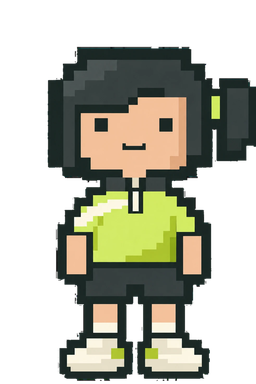
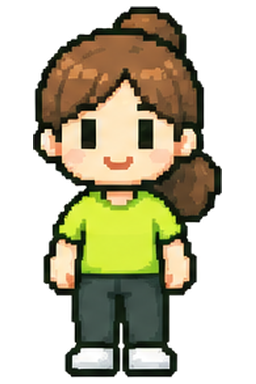
디자이너 시트 그림으로 전체 교체 + 동료 정원·캐릭터를 모두에게 표시
- 나무 4·장식 8·배지 11·캐릭터 2·정원 바탕·선물 꽃을 시트(design/sprite-sheet-2026-11-19)에서 잘라 넣음
  (scripts/slice-sheet-art-*.py 로 자르고 place-sheet-art.py 로 앱 규격에 맞춤)
- 도트 격자가 아닌 큰 그림이라 모두 부드럽게 줄여 그림(pixelated 제거)
- 나무는 정원에서 단계가 오를수록 커짐(TREE_GARDEN 18/23/30/40칸), 장식 칸 수를 그림 비율에 맞춤, 정원 바탕 그림 깔기
- 피드에서 이름을 누르면 누구든 캐릭터와 정원이 보임(공개 설정 show_in_feed 조건과 스위치 제거, 11-19 TK 지시)
- 시험: v22 130/130, check-art 29/29, garden-test 35/37(2건은 시험 DB에 넣어 둔 시험 데이터 탓)

diff --git a/components/GardenCanvas.tsx b/components/GardenCanvas.tsx
@@ -6,7 +6,7 @@
 //  · onMove 를 주면 편집 가능: 장식을 끌어서 옮기거나, 장식을 고른 뒤 빈 자리를 누르면 그 자리로 옮김. 저장은 손을 뗄 때 1번.
 //  · 움직이는 효과 없음(11-18 TK: 흔들리면 멀미 남)
 import { useRef, useState } from 'react'
-import { clampSpot, decorByKey, GARDEN_SIZE, GARDEN_TREE, Placed, TREE_STAGES } from '@/lib/game'
+import { clampSpot, decorByKey, GARDEN_SIZE, GARDEN_TREE, Placed, TREE_GARDEN, TREE_STAGES } from '@/lib/game'
 
 interface Props {
   stage: number
@@ -26,6 +26,7 @@ export default function GardenCanvas({ stage, items, scale, label, selected = nu
   const editable = !!onMove && !disabled
   const px = GARDEN_SIZE * scale
   const n = Math.min(Math.max(Math.round(stage) || 1, 1), TREE_STAGES.length)
+  const tree = TREE_GARDEN[n - 1] // 단계가 오를수록 나무가 커짐
 
   const cellAt = (e: { clientX: number; clientY: number }) => {
     const r = box.current!.getBoundingClientRect()
@@ -36,7 +37,8 @@ export default function GardenCanvas({ stage, items, scale, label, selected = nu
 
   return (
     <div ref={box} role={editable ? 'group' : 'img'} aria-label={label}
-      className="relative mx-auto overflow-hidden rounded-2xl bg-brand-50" style={{ width: px, height: px }}
+      className="relative mx-auto overflow-hidden rounded-2xl bg-brand-50"
+      style={{ width: px, height: px, backgroundImage: 'url(/game/v22/garden/garden-bg.png)', backgroundSize: '100% 100%' }}
       onClick={(e) => {
         // 장식을 고른 상태에서 빈 자리를 누르면 그 자리로(그림 가운데가 누른 곳에 오게)
         if (!editable || !selected || e.target !== e.currentTarget) return
@@ -50,8 +52,8 @@ export default function GardenCanvas({ stage, items, scale, label, selected = nu
       <img src={`/game/v22/tree/stage-${n}.png`} alt="" draggable={false}
         className="pointer-events-none absolute select-none"
         style={{
-          imageRendering: 'pixelated', width: GARDEN_TREE.w * scale, height: GARDEN_TREE.h * scale,
-          left: (GARDEN_TREE.x - GARDEN_TREE.w / 2) * scale, top: (GARDEN_TREE.y - GARDEN_TREE.h) * scale, zIndex: GARDEN_TREE.y,
+          width: tree * scale, height: tree * scale,
+          left: (GARDEN_TREE.x - tree / 2) * scale, top: (GARDEN_TREE.y - tree) * scale, zIndex: GARDEN_TREE.y,
         }} />
       {shown.map((it) => {
         const d = decorByKey(it.key)
@@ -63,7 +65,7 @@ export default function GardenCanvas({ stage, items, scale, label, selected = nu
         }
         const img = (
           // eslint-disable-next-line @next/next/no-img-element
-          <img src={d.src} alt={editable ? '' : d.name} draggable={false} className="pointer-events-none block h-full w-full select-none" style={{ imageRendering: 'pixelated' }} />
+          <img src={d.src} alt={editable ? '' : d.name} draggable={false} className="pointer-events-none block h-full w-full select-none" />
         )
         if (!editable) return <div key={it.key} className="absolute" style={style}>{img}</div>
         return (

diff --git a/lib/game.ts b/lib/game.ts
@@ -80,21 +80,24 @@ export function itemByKey(key: string | null | undefined): Item | null {
 //  · 햇빛으로 사면 내 것(환불 없음). 놓고, 옮기고, 빼 둘 수 있음. 같은 장식은 1개만.
 //  · 키는 game_purchases 검사(^[a-z]+_[a-z]+$)에 맞게 decor_xxx.
 //  · 좌표 (x, y) = 장식의 발끝(그림 아래쪽 가운데), 칸 단위 정수. 그림 크기가 바뀌어도 자리가 안 틀어지고, y 가 클수록 앞에 그려집니다.
-//  · 그림: public/game/v22/decor/decor-<이름>.png (픽셀 1칸 = 4px). 지금은 개발자 임시 시안(scripts/make-decor-art.py). w·h 는 칸 수.
+//  · 그림: public/game/v22/decor/decor-<이름>.png — 디자이너 시트(design/sprite-sheet-2026-11-19)에서 잘라 넣음(scripts/place-sheet-art.py).
+//    w·h 는 정원에서 차지하는 칸 수(1칸 = 정원 4px). 그림 파일은 같은 비율의 큰 그림(1칸 = 8px)이라 부드럽게 줄여 그립니다.
 export const GARDEN_SIZE = 80
-export const GARDEN_TREE = { x: 40, y: 52, w: 24, h: 24 } // 나무 자리(고정)
+export const GARDEN_TREE = { x: 40, y: 54 } // 나무 밑동 자리(고정)
+/** 정원에서 나무가 차지하는 칸(정사각) — 단계가 오를수록 커집니다(새싹 → 큰 나무) */
+export const TREE_GARDEN = [18, 23, 30, 40] as const
 export interface Decor { key: string; name: string; price: number; w: number; h: number; src: string }
 const decor = (id: string, name: string, price: number, w = 16, h = 16): Decor =>
   ({ key: `decor_${id}`, name, price, w, h, src: `/game/v22/decor/decor-${id}.png` })
 export const DECOR: Decor[] = [
-  decor('tulip', '튤립', 30),
-  decor('wild', '들꽃', 30),
-  decor('sunflower', '해바라기', 40),
-  decor('pot', '화분', 50),
-  decor('bench', '벤치', 60, 24, 16),
-  decor('butterfly', '나비', 70),
-  decor('lantern', '정원 등', 80),
-  decor('fountain', '분수', 120, 24, 24),
+  decor('tulip', '튤립', 30, 14, 15),
+  decor('wild', '들꽃', 30, 16, 16),
+  decor('sunflower', '해바라기', 40, 14, 18),
+  decor('pot', '화분', 50, 16, 17),
+  decor('bench', '벤치', 60, 24, 15),
+  decor('butterfly', '나비', 70, 16, 11),
+  decor('lantern', '정원 등', 80, 12, 22),
+  decor('fountain', '분수', 120, 26, 22),
 ]
 export function decorByKey(key: string | null | undefined): Decor | null {
   return DECOR.find((d) => d.key === key) ?? null

diff --git a/components/GardenPanel.tsx b/components/GardenPanel.tsx
@@ -104,7 +104,6 @@ function MyCharacterSection({ game, onChange }: { game: Game; onChange: (g: Game
         </div>
       </div>
       {msg && <div className="mt-3"><Notice tone={msg.tone}>{msg.text}</Notice></div>}
-      <FeedToggle game={game} onChange={(v) => onChange({ ...game, showInFeed: v })} />
     </section>
   )
 }
@@ -332,32 +331,3 @@ function GardenSection({ garden }: { garden: Garden | null }) {
   )
 }
 
-// ── 피드 표시 ──
-function FeedToggle({ game, onChange }: { game: Game; onChange: (v: boolean) => void }) {
-  const [saving, setSaving] = useState(false)
-  const [err, setErr] = useState('')
-  async function toggle() {
-    setSaving(true); setErr('')
-    const r = await api('/api/me/game/profile', { method: 'PUT', body: { showInFeed: !game.showInFeed } })
-    setSaving(false)
-    if (r.ok) onChange(!game.showInFeed); else setErr(r.message || '저장하지 못했어요.')
-  }
-  return (
-    <div className="mt-5 border-t border-line pt-4">
-      <div className="flex items-center justify-between gap-4">
-        <div>
-          <p className="text-[15px] font-bold text-ink-900">피드에 내 캐릭터 보이기</p>
-          <p className="mt-0.5 text-[13px] text-ink-500">켜면 동료 피드의 내 이름 옆에 작은 캐릭터가 보여요. 햇빛 수는 보이지 않아요.</p>
-        </div>
-        <button type="button" role="switch" aria-checked={game.showInFeed} disabled={saving} onClick={toggle}
-          aria-label="피드에 내 캐릭터 보이기"
-          className="flex h-[44px] w-[60px] shrink-0 items-center justify-center disabled:opacity-50">
-          <span className={`relative block h-[32px] w-[56px] rounded-full border-2 border-ink-900 transition-colors ${game.showInFeed ? 'bg-brand-300' : 'bg-ink-100'}`}>
-            <span className={`absolute top-[2px] h-[24px] w-[24px] rounded-full bg-ink-900 motion-safe:transition-[left] ${game.showInFeed ? 'left-[26px]' : 'left-[2px]'}`} />
-          </span>
-        </button>
-      </div>
-      {err && <div className="mt-3"><Notice tone="error">{err}</Notice></div>}
-    </div>
-  )
-}

diff --git a/lib/server/game.ts b/lib/server/game.ts
@@ -180,9 +180,10 @@ export async function feedLooks(db: SupabaseClient, ids: string[], today = kstTo
 /** 동료 프로필(피드에서 이름을 눌렀을 때) — 이모지·한마디, 캐릭터는 본인이 '보이기'를 켠 경우만 */
 export async function peerProfile(db: SupabaseClient, employeeId: string) {
   const { data: p } = await db.from('game_profiles').select('*').eq('employee_id', employeeId).maybeSingle()
-  // 정원 구경(2단계): 공개를 켠 직원만. 나무 단계 이름과 놓인 장식만 — 운동한 날 수·햇빛·가진 장식 목록은 내보내지 않음
+  // 정원 구경: 모든 직원(11-19 TK: 이름을 누르면 그 사람의 정원과 캐릭터가 나오게 — 공개 설정 없앰).
+  // 나무 단계 이름과 놓인 장식만 — 운동한 날 수·햇빛·가진 장식 목록은 내보내지 않음
   let garden: { stage: number; stageName: string; items: Placed[] } | null = null
-  if (p?.show_in_feed === true) {
+  {
     const [e, placed] = await Promise.all([
       earnedFor(db, employeeId),
       db.from('garden_placements').select('item_key, slot, x, y').eq('employee_id', employeeId), // 033·034 전 DB 면 오류 → 빈 정원
@@ -193,8 +194,8 @@ export async function peerProfile(db: SupabaseClient, employeeId: string) {
   return {
     garden,
     emoji: isNameEmoji(p?.name_emoji) ? (p.name_emoji as string) : null,
-    showCharacter: p?.show_in_feed === true,
-    character: p?.show_in_feed === true && isCharacterKey(p?.character) ? (p.character as string) : null,
+    showCharacter: true,
+    character: isCharacterKey(p?.character) ? (p.character as string) : null, // 안 골랐으면 화면이 기본 캐릭터로 그림
     message: typeof p?.status_message === 'string' ? (p.status_message as string) : null,
   }
 }

diff --git a/components/Profile.tsx b/components/Profile.tsx
@@ -163,21 +163,6 @@ export function ProfileSheet({ open, name, onClose, onEmoji, setup = false }: {
             </button>
           </div>
 
-          {/* 캐릭터 공개 */}
-          <div className="flex items-center justify-between gap-4 border-t border-line pt-4">
-            <div>
-              <p className="text-[15px] font-bold text-ink-900">동료에게 내 캐릭터·정원 보이기</p>
-              <p className="mt-0.5 text-[13px] text-ink-500">켜면 동료가 피드에서 내 이름을 눌렀을 때 캐릭터와 정원이 보여요. 운동한 날 수와 햇빛은 보이지 않아요.</p>
-            </div>
-            <button type="button" role="switch" aria-checked={p.showInFeed} disabled={busy} aria-label="동료에게 내 캐릭터·정원 보이기"
-              onClick={() => save({ showInFeed: !p.showInFeed }, (cur) => ({ ...cur, showInFeed: !cur.showInFeed }))}
-              className="flex h-[44px] w-[60px] shrink-0 items-center justify-center disabled:opacity-50">
-              <span className={`relative block h-[32px] w-[56px] rounded-full border-2 border-ink-900 transition-colors ${p.showInFeed ? 'bg-brand-300' : 'bg-ink-100'}`}>
-                <span className={`absolute top-[2px] h-[24px] w-[24px] rounded-full bg-ink-900 motion-safe:transition-[left] ${p.showInFeed ? 'left-[26px]' : 'left-[2px]'}`} />
-              </span>
-            </button>
-          </div>
-
           {msg && <Notice tone={msg.tone}>{msg.text}</Notice>}
           {setup && (
             <button type="button" disabled={busy || !p.characterKey} onClick={onClose}

diff --git a/components/TreeArt.tsx b/components/TreeArt.tsx
@@ -1,9 +1,8 @@
 import { TREE_STAGES } from '@/lib/game'
 
 /**
- * 나무 그림 — 픽셀 아트 4단계(public/game/v22/tree/stage-N.png, 24×24 격자를 4배로 그린 96px).
- * 지금 파일은 개발자 임시 시안(scripts/make-tree-art.py). 디자이너 그림이 오면 같은 파일명으로 바꾸면 됩니다.
- * size 는 24의 배수(48·72·96)로 주면 픽셀이 뭉개지지 않습니다.
+ * 나무 그림 4단계(public/game/v22/tree/stage-N.png, 정사각 320px 투명 PNG) — 디자이너 시트에서 잘라 넣은 그림.
+ * 도트 격자가 아닌 큰 그림이라 부드럽게 줄여 그립니다.
  */
 export default function TreeArt({ stage, size = 96 }: { stage: number; size?: number }) {
   const n = Math.min(Math.max(Math.round(stage) || 1, 1), TREE_STAGES.length)
@@ -11,6 +10,6 @@ export default function TreeArt({ stage, size = 96 }: { stage: number; size?: nu
     // eslint-disable-next-line @next/next/no-img-element
     <img src={`/game/v22/tree/stage-${n}.png`} alt={`${TREE_STAGES[n - 1].name} 그림`} width={size} height={size}
       className="shrink-0"  // 움직이지 않음(11-18 TK: 흔들리면 멀미 남)
-      style={{ imageRendering: 'pixelated', width: size, height: size }} />
+      style={{ width: size, height: size }} />
   )
 }

diff --git a/components/MyGarden.tsx b/components/MyGarden.tsx
@@ -155,7 +155,7 @@ export default function MyGarden<G extends GardenGame>({ game, onChange }: { gam
               <span className="flex min-w-0 items-center gap-3">
                 <span className="flex h-12 w-12 shrink-0 items-center justify-center">
                   {/* eslint-disable-next-line @next/next/no-img-element */}
-                  <img src={d.src} alt="" width={d.w * 2} height={d.h * 2} style={{ imageRendering: 'pixelated', width: d.w * 2, height: d.h * 2 }} />
+                  <img src={d.src} alt="" width={d.w * 2} height={d.h * 2} className="max-h-12 max-w-12 object-contain" />
                 </span>
                 <span className="min-w-0">
                   <span className="block text-[15px] font-bold text-ink-900">{d.name}</span>

diff --git a/components/ChallengeTab.tsx b/components/ChallengeTab.tsx
@@ -307,7 +307,7 @@ function BadgeArt({ b, size = 64 }: { b: BadgeView; size?: number }) {
   if (broken) return <div style={{ opacity: b.earnedAt ? 1 : 0.45 }}><Seal text={String(b.threshold)} unit={SERIES_UNIT[b.series]} size={size} /></div>
   return (
     <img src={badgeSrc(b.key)} alt="" aria-hidden="true" width={size} height={size} onError={() => setBroken(true)}
-      style={{ imageRendering: 'pixelated', width: size, height: size, filter: b.earnedAt ? undefined : 'grayscale(1)', opacity: b.earnedAt ? 1 : 0.45 }} />
+      style={{ width: size, height: size, filter: b.earnedAt ? undefined : 'grayscale(1)', opacity: b.earnedAt ? 1 : 0.45 }} />
   )
 }
 

diff --git a/scripts/place-sheet-art.py b/scripts/place-sheet-art.py
@@ -1,0 +1,43 @@
+# 디자이너 스프라이트 시트(design/sprite-sheet-2026-11-19)에서 잘라 낸 그림을 앱 규격으로 맞춰 public/game/v22 에 넣습니다.
+#   python scripts/place-sheet-art.py <잘라 낸 raw-*.png 가 있는 폴더>
+# 시트 그림은 도트 격자가 아닌 큰 그림이라, 앱은 부드럽게 줄여 그립니다(pixelated 아님).
+#  · 장식: lib/game.ts DECOR 의 w·h(칸, 1칸 = 정원 4px)와 같은 비율의 캔버스(1칸 = 8px)에 아래 가운데로 놓음
+#  · 나무: 정사각 320px 에 꽉 차게(아래 가운데). 정원에서의 크기는 lib/game.ts TREE_GARDEN 이 단계별로 정함
+#  · 배지: 정사각 256px. 같은 계열 안에서 단계가 오를수록 조금씩 커지게(크기 차이를 절반만 반영)
+#  · 캐릭터: 256×384, 두 장 같은 배율·같은 발 위치
+import sys, math
+from pathlib import Path
+from PIL import Image
+RAW = Path(sys.argv[1]); PUB = Path('public/game/v22')
+K = 0.64 / 4  # 시트 px → 정원 칸
+def fit(im, W, H, margin=0, anchor='bottom'):
+    s = min((W - 2 * margin) / im.width, (H - 2 * margin) / im.height)
+    r = im.resize((max(1, round(im.width * s)), max(1, round(im.height * s))), Image.LANCZOS)
+    c = Image.new('RGBA', (W, H), (0, 0, 0, 0))
+    y = H - margin - r.height if anchor == 'bottom' else (H - r.height) // 2
+    c.alpha_composite(r, ((W - r.width) // 2, y)); return c
+cells = {}
+for n in ['tulip', 'wild', 'sunflower', 'pot', 'bench', 'butterfly', 'lantern', 'fountain', 'gift-flower']:
+    im = Image.open(RAW / f'raw-decor-{n}.png')
+    w, h = max(8, round(im.width * K)), max(8, round(im.height * K))
+    w += w % 2  # 가운데 맞춤이 반 칸 어긋나지 않게 짝수
+    cells[n] = (w, h)
+    fit(im, w * 8, h * 8).save(PUB / 'decor' / f'decor-{n}.png')
+for i in range(1, 5):
+    fit(Image.open(RAW / f'raw-stage-{i}.png'), 320, 320).save(PUB / 'tree' / f'stage-{i}.png')
+B = ['record-01', 'record-10', 'record-30', 'record-100', 'streak-03', 'streak-07', 'streak-14', 'streak-30', 'goal-01', 'goal-04', 'goal-12']
+ims = {n: Image.open(RAW / f'raw-{n}.png') for n in B}
+big = max(max(i.size) for i in ims.values())
+for n, im in ims.items():
+    box = round(244 * math.sqrt(max(im.size) / big))
+    c = Image.new('RGBA', (256, 256), (0, 0, 0, 0)); c.alpha_composite(fit(im, box, box, anchor='center'), ((256 - box) // 2, (256 - box) // 2))
+    c.save(PUB / 'badges' / f'{n}.png')
+cm, cf = Image.open(RAW / 'raw-char-m.png'), Image.open(RAW / 'raw-char-f.png')
+s = 372 / max(cm.height, cf.height)
+for n, im in (('char-m', cm), ('char-f', cf)):
+    r = im.resize((round(im.width * s), round(im.height * s)), Image.LANCZOS)
+    c = Image.new('RGBA', (256, 384), (0, 0, 0, 0)); c.alpha_composite(r, ((256 - r.width) // 2, 378 - r.height)); c.save(PUB / 'characters' / f'{n}.png')
+(PUB / 'garden').mkdir(exist_ok=True)
+Image.open(RAW / 'raw-garden-bg.png').resize((640, 640), Image.LANCZOS).save(PUB / 'garden' / 'garden-bg.png')
+print('decor cells', cells)
+print('tree px(sheet)', [Image.open(RAW / f'raw-stage-{i}.png').size for i in range(1, 5)])

diff --git a/scripts/check-art.py b/scripts/check-art.py
@@ -19,7 +19,7 @@ for k in keys:
         check(f'{k} 파일', False, str(p)); continue
     im = Image.open(p)
     a = im.getchannel('A') if im.mode == 'RGBA' else None
-    check(f'{k} → {p.name}: 64×64 · 투명 배경', im.size == (64, 64) and a is not None and a.getpixel((0, 0)) == 0 and min(a.getdata()) == 0, f'{im.size} {im.mode}')
+    check(f'{k} → {p.name}: 256×256 · 투명 배경', im.size == (256, 256) and a is not None and a.getpixel((0, 0)) == 0 and min(a.getdata()) == 0, f'{im.size} {im.mode}')
 for c in ['char-m', 'char-f']:
     im = Image.open(f'public/game/v22/characters/{c}.png')
     check(f'캐릭터 {c}: 256×384(2:3, 화면에서 64×96 기준으로 줄여 그림) · 투명 배경', im.size == (256, 384) and im.mode == 'RGBA' and im.getchannel('A').getpixel((0, 0)) == 0, f'{im.size}')
@@ -28,7 +28,7 @@ for c in ['char-m', 'char-f']:
 for n in range(1, 5):
     f = Path(f'public/game/v22/tree/stage-{n}.png')
     im = Image.open(f) if f.exists() else None
-    check(f'나무 stage-{n}: 96×96 · 투명 배경', bool(im) and im.size == (96, 96) and im.mode == 'RGBA' and im.getchannel('A').getpixel((0, 0)) == 0, str(im.size if im else '없음'))
+    check(f'나무 stage-{n}: 320×320 · 투명 배경', bool(im) and im.size == (320, 320) and im.mode == 'RGBA' and im.getchannel('A').getpixel((0, 0)) == 0, str(im.size if im else '없음'))
 g = Path('lib/game.ts').read_text(encoding='utf-8')
 decor = re.findall(r"decor\('(\w+)', '[^']+', \d+(?:, (\d+), (\d+))?\)", g)
 check('장식 8종 정의', len(decor) == 8, str(len(decor)))
@@ -36,6 +36,6 @@ for name, w, h in decor:
     w, h = int(w or 16), int(h or 16)
     f = Path(f'public/game/v22/decor/decor-{name}.png')
     im = Image.open(f) if f.exists() else None
-    check(f'장식 decor-{name}: {w*4}×{h*4} · 투명 배경', bool(im) and im.size == (w * 4, h * 4) and im.mode == 'RGBA' and im.getchannel('A').getpixel((0, 0)) == 0, str(im.size if im else '없음'))
+    check(f'장식 decor-{name}: {w*8}×{h*8}(칸 {w}×{h}) · 투명 배경', bool(im) and im.size == (w * 8, h * 8) and im.mode == 'RGBA' and im.getchannel('A').getpixel((0, 0)) == 0, str(im.size if im else '없음'))
 print(f'\n결과: {ok}/{ok + bad} 통과')
 sys.exit(1 if bad else 0)

diff --git a/scripts/slice-sheet-art-2-cut.py b/scripts/slice-sheet-art-2-cut.py
@@ -1,0 +1,28 @@
+import sys, glob
+from PIL import Image, ImageFilter
+import numpy as np
+from scipy import ndimage as ndi
+src=glob.glob('C:/Users/SAEGYAERO/Downloads/*스프라이트 시트*.png')[0]
+OUT=sys.argv[1]
+im=Image.open(src).convert('RGB'); a=np.asarray(im)
+bg=np.load(OUT+'/bg.npy'); fg=ndi.binary_opening(~bg,structure=np.ones((3,3)))
+# 튤립·들꽃 경계: 552~761 사이에서 전경이 가장 적은 열
+col=fg[363:474,620:680].sum(0); split=620+int(col.argmin()); print('split',split,col.min())
+B={'stage-1':(605,166,733,284),'stage-2':(795,127,937,284),'stage-3':(982,90,1182,284),'stage-4':(1201,15,1503,290),
+'decor-tulip':(552,363,split,474),'decor-wild':(split,363,761,474),'decor-sunflower':(769,352,870,475),'decor-pot':(872,364,979,481),
+'decor-bench':(980,375,1134,478),'decor-butterfly':(1136,382,1241,463),'decor-lantern':(1252,340,1337,491),'decor-fountain':(1342,340,1519,491),
+'record-01':(373,611,470,680),'record-10':(493,605,621,682),'record-30':(650,578,742,698),'record-100':(767,576,914,696),
+'streak-03':(404,752,463,819),'streak-07':(515,737,596,825),'streak-14':(647,726,750,830),'streak-30':(806,700,891,840),
+'goal-01':(401,866,517,977),'goal-04':(570,860,684,983),'goal-12':(736,856,889,988),
+'char-m':(18,611,182,907),'char-f':(191,611,347,907),'decor-gift-flower':(946,692,1101,854),'garden-bg':(1116,566,1526,984),'garden-sample':(18,25,532,537)}
+res={}
+for n,(x0,y0,x1,y1) in B.items():
+    m=fg[y0:y1,x0:x1]
+    if n=='decor-gift-flower':   # 칸 테두리(가는 회색 줄) 제외: 가장 큰 덩어리만
+        l,k=ndi.label(m); m=(l==1+np.argmax(ndi.sum(m,l,range(1,k+1))))
+    m=ndi.binary_fill_holes(m)   # 그림 안의 밝은 부분(흰 꽃잎·신발)은 남김
+    ys,xs=np.where(m); bx0,bx1,by0,by1=xs.min(),xs.max()+1,ys.min(),ys.max()+1
+    c=Image.fromarray(a[y0:y1,x0:x1]).convert('RGBA')
+    al=Image.fromarray((m*255).astype('uint8')).filter(ImageFilter.GaussianBlur(0.6))
+    c.putalpha(al); c=c.crop((bx0,by0,bx1,by1)); c.save(f'{OUT}/raw-{n}.png'); res[n]=c.size
+    print(n,c.size)

diff --git a/scripts/slice-sheet-art-1-find.py b/scripts/slice-sheet-art-1-find.py
@@ -1,0 +1,32 @@
+import sys, glob
+from PIL import Image, ImageDraw
+import numpy as np
+from scipy import ndimage as ndi
+src=glob.glob('C:/Users/SAEGYAERO/Downloads/*스프라이트 시트*.png')[0]
+OUT=sys.argv[1]
+im=Image.open(src).convert('RGB'); print(im.size)
+a=np.asarray(im).astype(int)
+# 배경 후보: 흰 바탕 + 배지 뒤 옅은 판(파랑·분홍·크림) + 선물 꽃 칸. 채도가 낮고 아주 밝은 색
+mx=a.max(2); mn=a.min(2)
+light=(mn>=222)            # 거의 흰색·옅은 판 색
+# 바깥에서 이어진 light 만 배경으로(그림 안의 흰색은 남김): light 영역을 라벨링해 큰 덩어리만 배경
+lab,n=ndi.label(light)
+sizes=ndi.sum(light,lab,range(1,n+1))
+bg=np.isin(lab,[i+1 for i,s in enumerate(sizes) if s>6000])
+fg=~bg
+# 가는 구분선(회색 줄) 제거: 열림 연산
+fg2=ndi.binary_opening(fg,structure=np.ones((5,5)))
+# 반짝이 등 떨어진 조각을 본체에 붙이려고 조금 부풀려 라벨링
+lab2,n2=ndi.label(ndi.binary_dilation(fg2,structure=np.ones((13,13))))
+objs=ndi.find_objects(lab2)
+boxes=[]
+for i,sl in enumerate(objs):
+    y0,y1,x0,x1=sl[0].start,sl[0].stop,sl[1].start,sl[1].stop
+    if (x1-x0)*(y1-y0)<2500: continue
+    boxes.append((x0,y0,x1,y1,i+1))
+dbg=im.copy(); d=ImageDraw.Draw(dbg)
+for k,(x0,y0,x1,y1,i) in enumerate(sorted(boxes,key=lambda b:(b[1]//150,b[0]))):
+    d.rectangle((x0,y0,x1,y1),outline=(255,0,0),width=2); d.text((x0+3,y0+3),str(k),fill=(255,0,0))
+    print(k,x0,y0,x1,y1)
+dbg.save(OUT+'/debug.png')
+np.save(OUT+'/bg.npy',bg)
